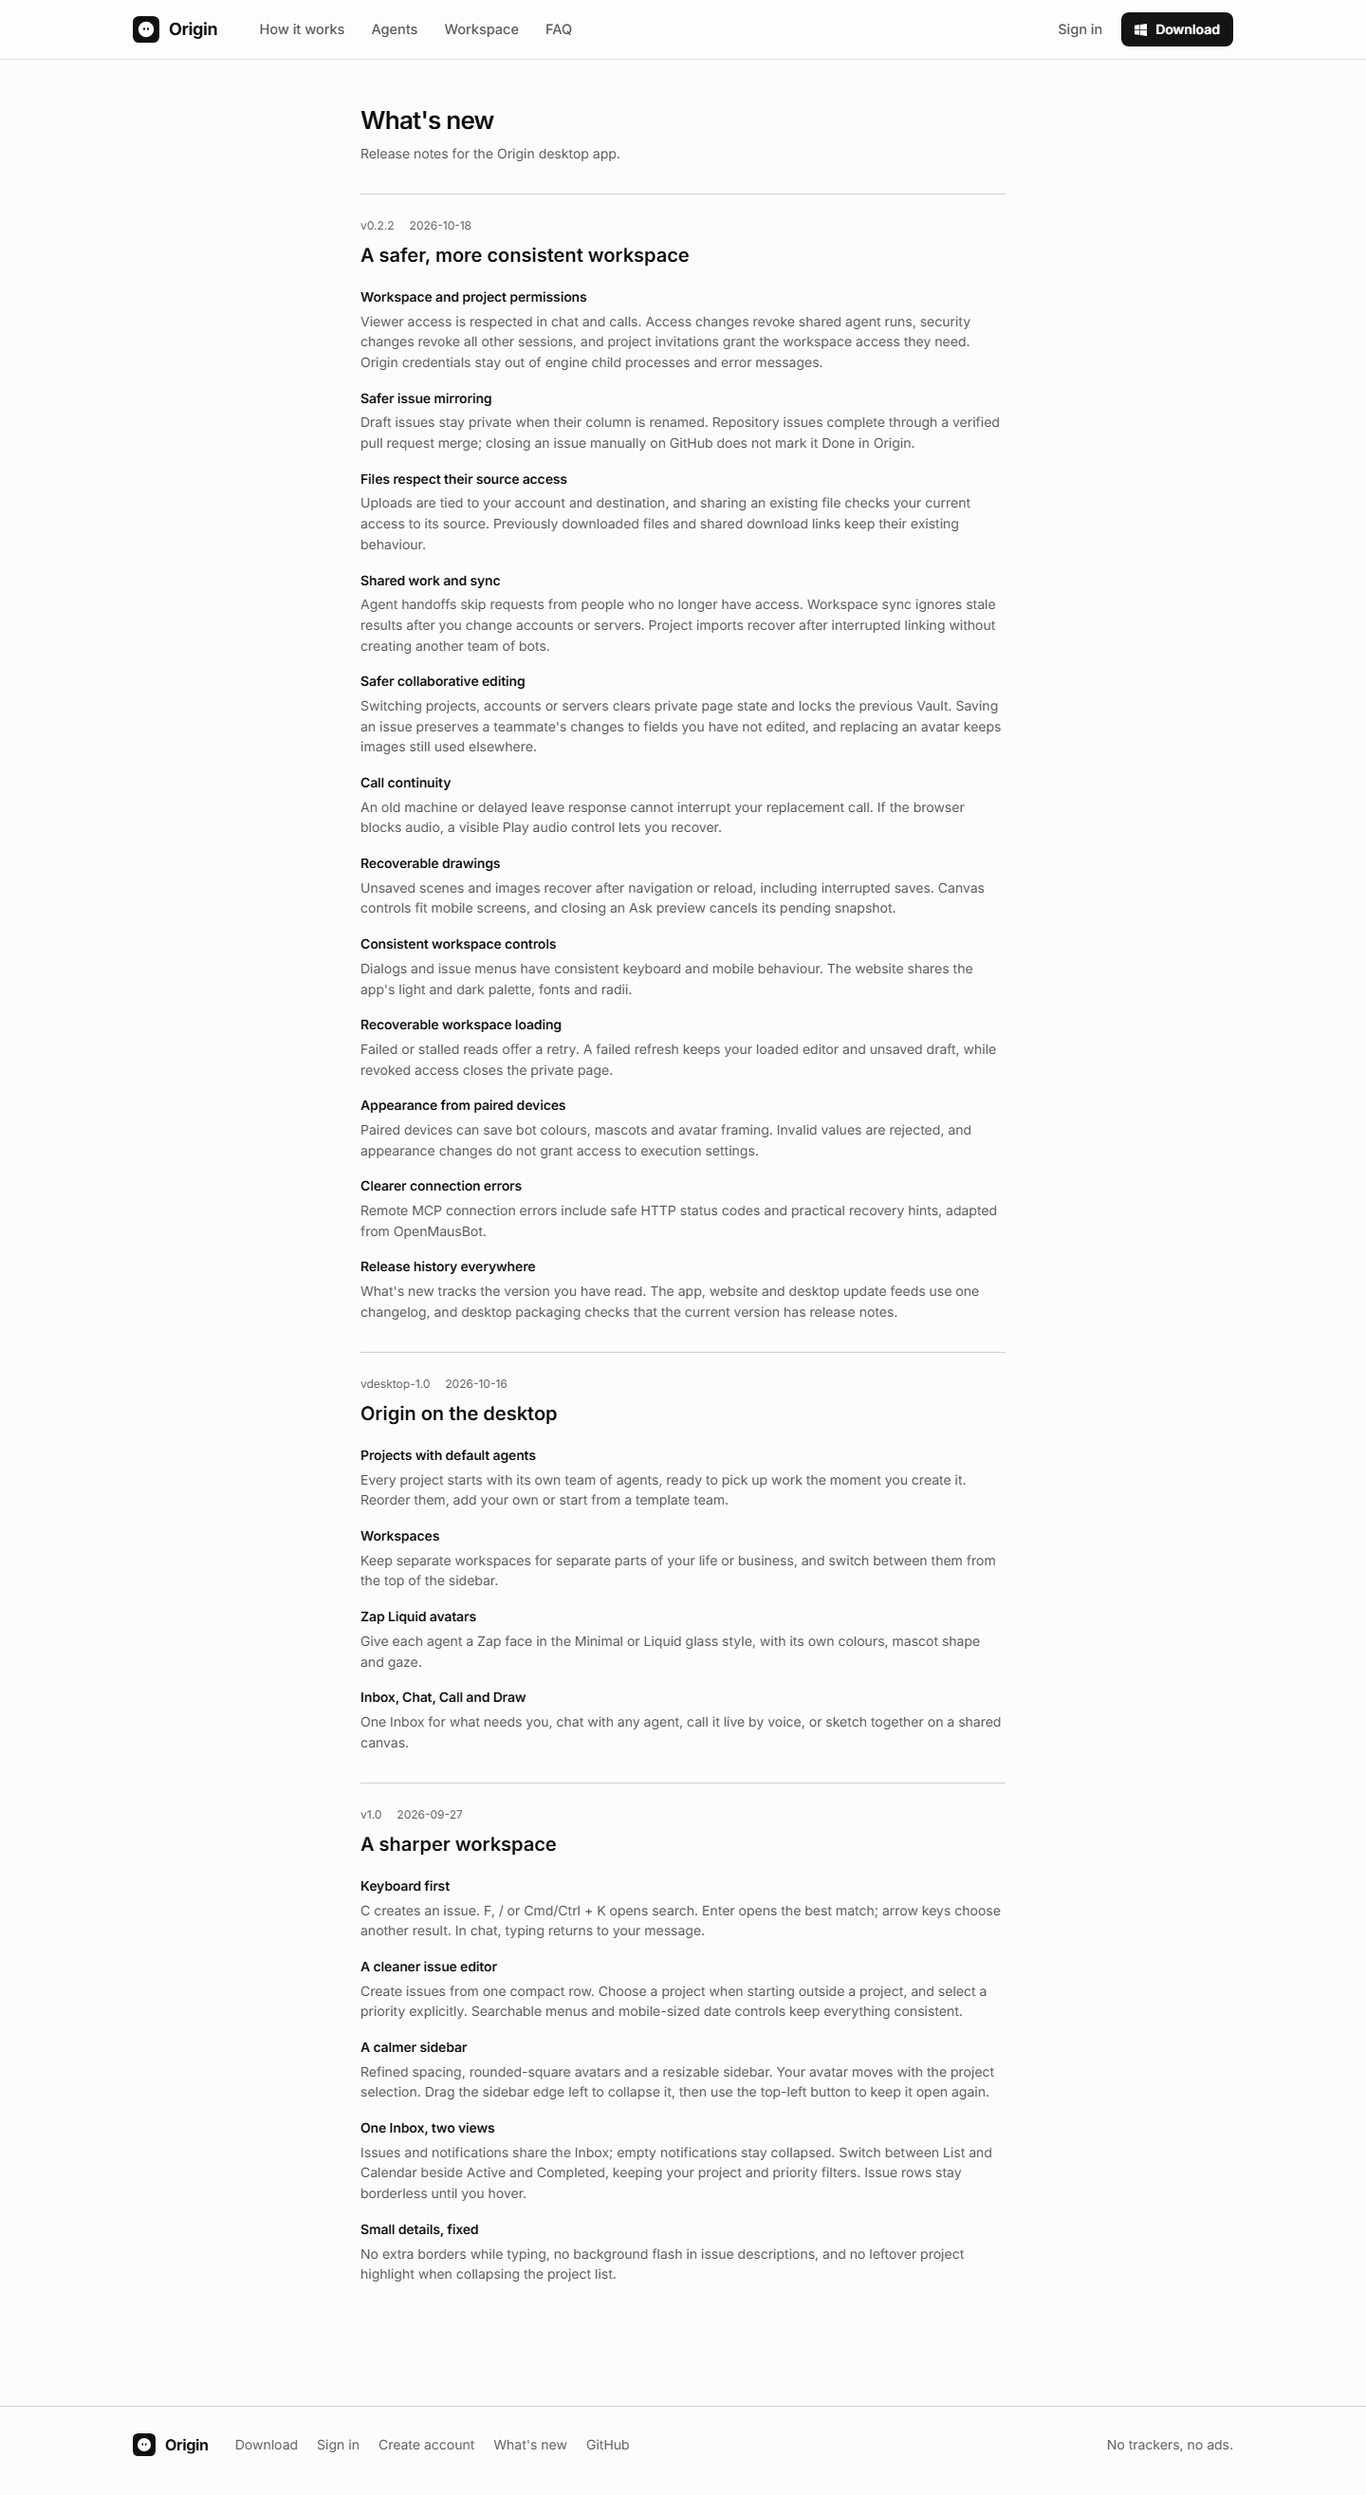
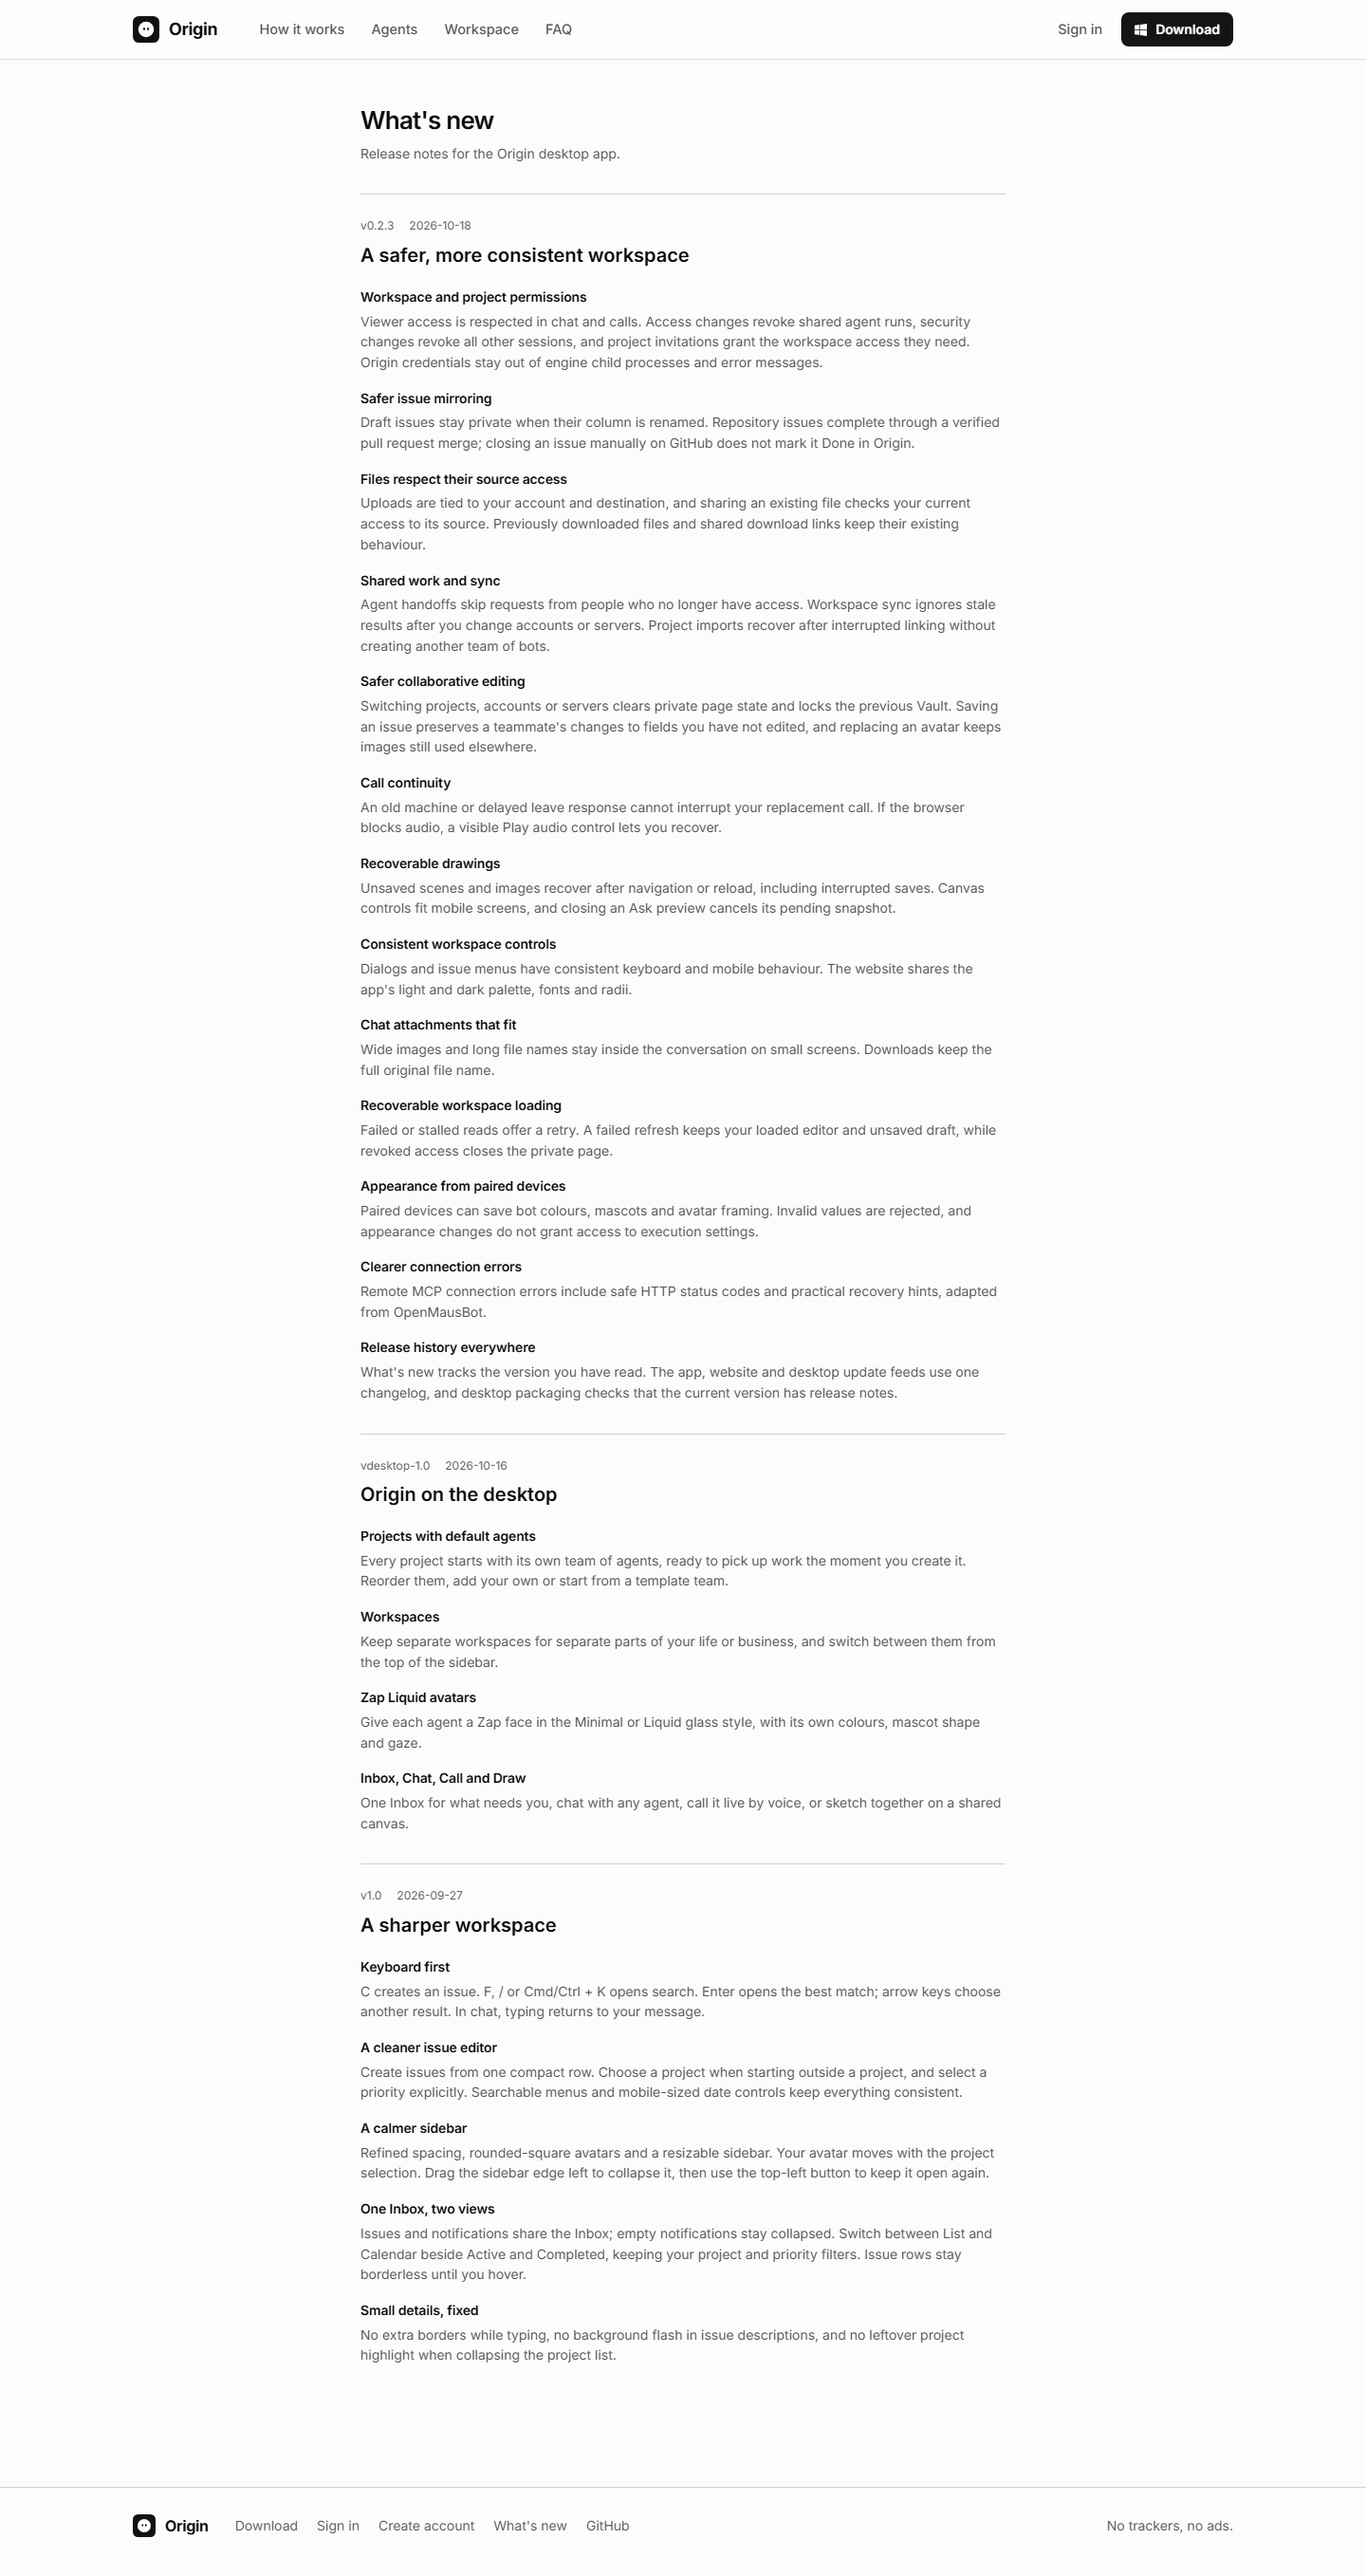
test(site): verify the final production image without external browser traffic

Changed region(s): [[0.25, 0.0312, 0.7188, 0.9354], [0.8438, 0.0, 0.875, 0.0312]]

diff --git a/docs/verification/origin-site.md b/docs/verification/origin-site.md
@@ -6,9 +6,11 @@ The website's `/whats-new` page reads `shared/origin-releases.ts`. Footer/downlo
 
 ## Browser evidence
 
-The isolated Next server ran on `http://127.0.0.1:3017`, with `NEXT_PUBLIC_CONVEX_URL=http://127.0.0.1:20689` pointing to an unused synthetic endpoint. The browser intercepted that WebSocket; no account was created and no production/local Convex deployment was contacted. External requests were blocked in the reproducible after check.
+The isolated Next development server ran on `http://127.0.0.1:3017`, with `NEXT_PUBLIC_CONVEX_URL=http://127.0.0.1:20689` pointing to an unused synthetic endpoint. Its browser intercepted that WebSocket; no account was created and no production/local Convex deployment was contacted. External HTTP requests were blocked.
 
-Before screenshots cover landing, sign-in and sign-up at 375/1440 px in light/dark. Final after checks use the 2026-10-18 version 0.2.2 changelog and cover those routes plus release history: 16 cases, zero page errors, no horizontal overflow, mobile menu Escape, password visibility, named fields and Windows download target. Full-page after screenshots include the lower landing sections and footer. Evidence is in `evidence/origin-site/`: `*-before.png`, `*-after-full.png`, `before-results.json` and `after-full-results.json`. The new release-history page has no pre-existing screen to compare.
+Before screenshots cover landing, sign-in and sign-up at 375/1440 px in light/dark. Final after checks use the 2026-10-18 version 0.2.3 changelog and cover those routes plus release history: 16 cases, zero page errors, no horizontal overflow, mobile menu Escape, password visibility, named fields and Windows download target. Full-page after screenshots include the lower landing sections and footer. Evidence is in `evidence/origin-site/`: `*-before.png`, `*-after-full.png`, `before-results.json` and `after-full-results.json`. The new release-history page has no pre-existing screen to compare.
+
+The final production Docker image was built with the intended public Convex endpoints and tested before rollout through a private loopback container and SSH tunnel at `http://127.0.0.1:3033/`. All WebSockets are intercepted without forwarding, and non-loopback HTTP requests are blocked. Both final 16-case runs (`after` and `production-image`) pass with zero page errors. The tests never submit an account form. `production-image-full-results.json` and matching screenshots record this compiled-artifact check; they do not prove live account authentication.
 
 ```powershell
 $env:NEXT_PUBLIC_CONVEX_URL = 'http://127.0.0.1:20689'
